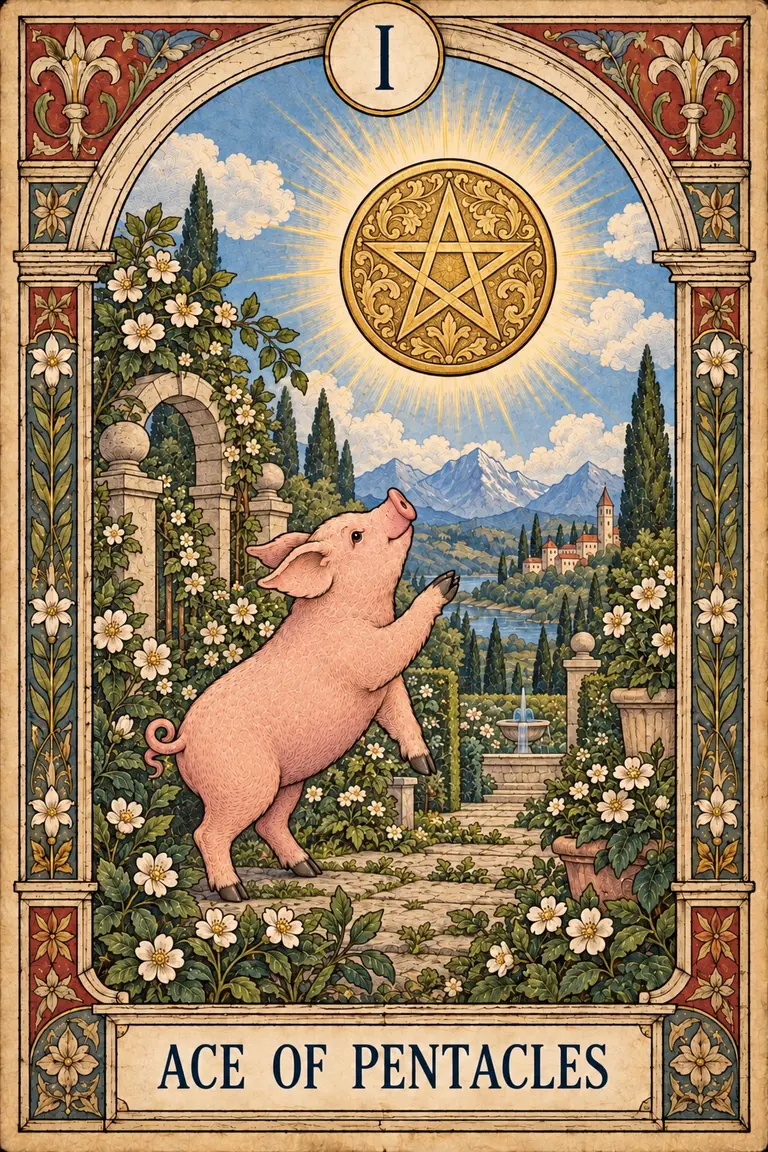
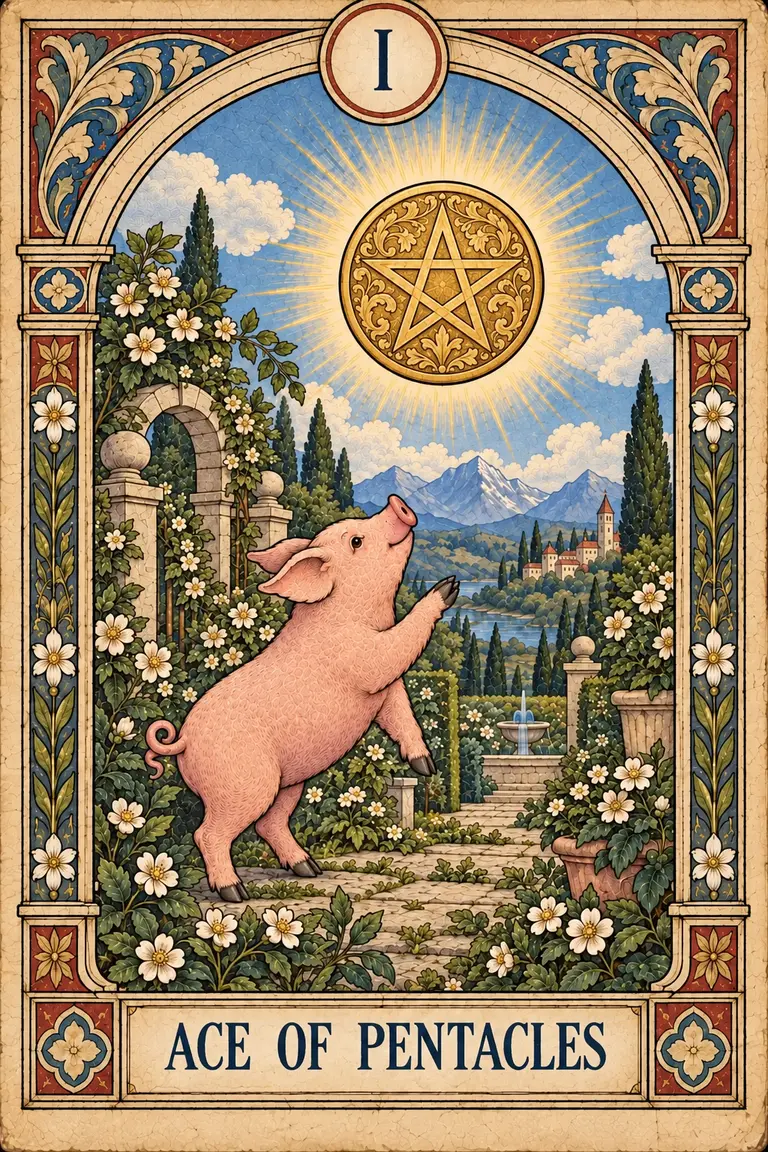
Unify first three Pentacles card frames

diff --git a/assets/js/tarot.js b/assets/js/tarot.js
@@ -113,7 +113,7 @@ export function createTarotCabinet() {
   function render() {
     const visible = cards.filter(card => group === 'all' || card.group === group);
     grid.innerHTML = visible.map(card => `<button class="tarot-card ${card.artwork ? 'is-collected' : 'is-pending'} ${revealed.has(card.id) ? 'is-revealed' : ''}" data-id="${escape(card.id)}" type="button" aria-label="${revealed.has(card.id) ? `查看${escape(card.name)}详情` : `翻开${escape(card.name)}`}">
-      <span class="tarot-art"><span class="tarot-card-inner"><span class="tarot-face tarot-back"><img src="assets/tarot/card-back.webp?v=2651" alt="" width="320" height="480" loading="lazy" decoding="async"></span><span class="tarot-face tarot-front">${card.artwork ? `<img src="assets/tarot/${escape(card.artwork)}?v=swords-uniform-aged-20261019" alt="${escape(card.name)}牌面" width="320" height="480" loading="lazy" decoding="async" fetchpriority="low">` : `<span class="tarot-placeholder"><b>${escape(card.number)}</b><i>VESPERION</i><span>馆藏空位</span></span>`}</span></span></span>
+      <span class="tarot-art"><span class="tarot-card-inner"><span class="tarot-face tarot-back"><img src="assets/tarot/card-back.webp?v=2651" alt="" width="320" height="480" loading="lazy" decoding="async"></span><span class="tarot-face tarot-front">${card.artwork ? `<img src="assets/tarot/${escape(card.artwork)}?v=pentacles-123-uniform-20261019" alt="${escape(card.name)}牌面" width="320" height="480" loading="lazy" decoding="async" fetchpriority="low">` : `<span class="tarot-placeholder"><b>${escape(card.number)}</b><i>VESPERION</i><span>馆藏空位</span></span>`}</span></span></span>
       <span class="tarot-meta"><small>${card.group === 'major' ? 'MAJOR ARCANA' : card.group.toUpperCase()}</small><b>${escape(card.name)}</b><em>${escape(card.title)}</em></span>
     </button>`).join('');
     const collected = visible.filter(card => card.artwork).length;
@@ -187,7 +187,7 @@ export function createTarotCabinet() {
       readingTable.innerHTML = selected.map((card, index) => `<article class="draw-slot" data-draw-index="${index}">
         <p class="draw-position">${escape(positions[index])}</p>
         <button class="draw-card" type="button" aria-label="翻开${escape(positions[index])}牌">
-          <span class="draw-card-inner"><span class="draw-face draw-back" aria-hidden="true"><img src="assets/tarot/card-back.webp?v=2651" alt="" width="320" height="480" decoding="async"></span><span class="draw-face draw-front"><img src="assets/tarot/${escape(card.artwork)}?v=swords-uniform-aged-20261019" alt="" width="320" height="480" decoding="async"></span></span>
+          <span class="draw-card-inner"><span class="draw-face draw-back" aria-hidden="true"><img src="assets/tarot/card-back.webp?v=2651" alt="" width="320" height="480" decoding="async"></span><span class="draw-face draw-front"><img src="assets/tarot/${escape(card.artwork)}?v=pentacles-123-uniform-20261019" alt="" width="320" height="480" decoding="async"></span></span>
         </button>
         <span class="draw-hint">点击翻牌</span>
         <p class="draw-meaning"><b>${escape(card.name)} · ${escape(card.title)}</b>${escape(practiceMeaning(card))}</p>

diff --git a/assets/js/main.js b/assets/js/main.js
@@ -1,6 +1,6 @@
 import { createArchive, loadSpecimens } from './archive.js?v=20261015-specimens-51';
 import { initTheme } from './theme.js?v=20261011-safari-1';
-import { createTarotCabinet } from './tarot.js?v=20261019-swords-uniform-aged';
+import { createTarotCabinet } from './tarot.js?v=20261019-pentacles-123-uniform';
 
 const QUOTES = ['“可猫可猪；若必须二选一，仍然是猪。”', '“爸爸爸爸——”', '“咪————”', '“今天已经是明晚了。”', '“蜗牛胜出，芝士沉默。”', '“本猪合格，可以继续抱。”', '“一只宇宙无敌第一可爱萌猪诞生惹。”', '“这不是烧钱，这是文化传播经费。”'];
 

diff --git a/index.html b/index.html
@@ -150,7 +150,7 @@
     <div id="tarotDialogContent"></div>
   </dialog>
   <div class="toast" id="toast" role="status"></div>
-  <script type="module" src="assets/js/main.js?v=20261019-swords-uniform-aged"></script>
+  <script type="module" src="assets/js/main.js?v=20261019-pentacles-123-uniform"></script>
 </body>
 </html>
 
